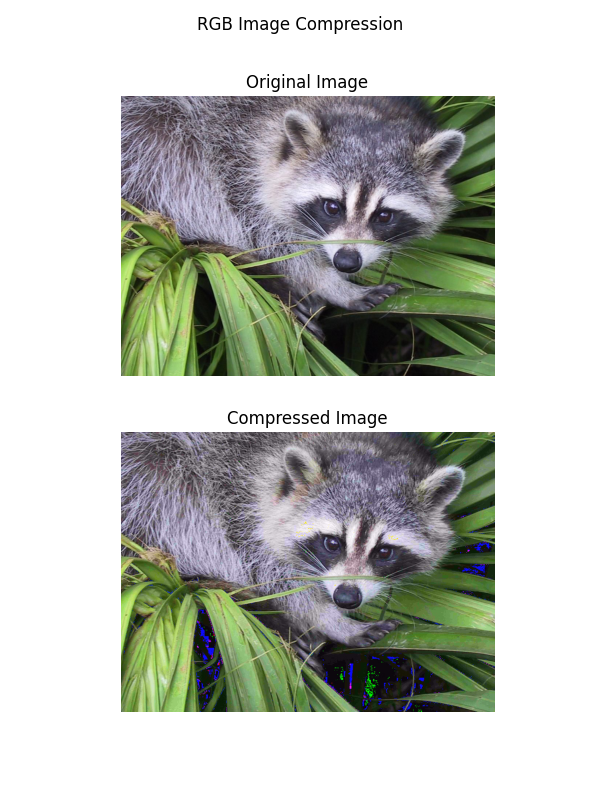
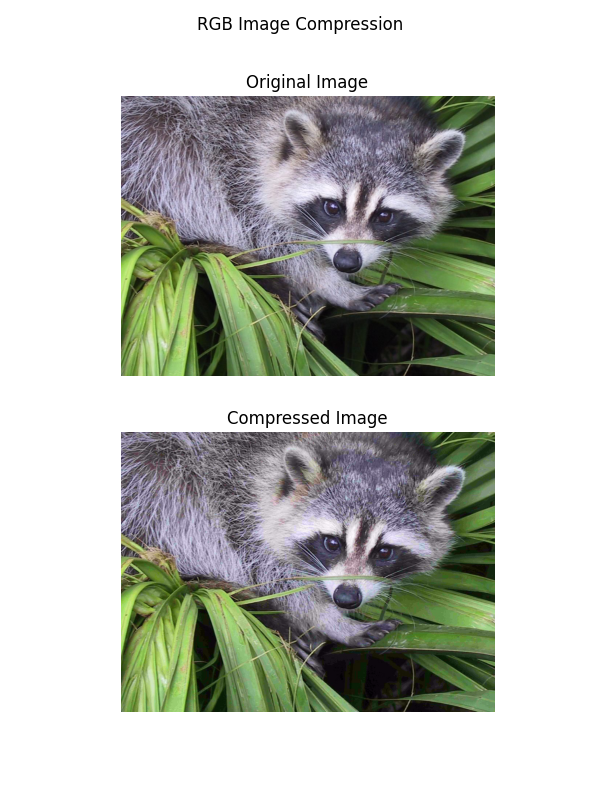
fix: pixel values clipped [0,255], casted final values to int, casted image to floats

Changed region(s): [[0.54, 0.8125, 0.72, 0.9062], [0.33, 0.75, 0.39, 0.875], [0.78, 0.6562, 0.81, 0.7188]]

diff --git a/tests/test_conversion.py b/tests/test_conversion.py
@@ -1,0 +1,38 @@
+import scipy
+from jpegzip.utils.image import rgb_to_ycbcr, ycbcr_to_rgb
+from skimage.metrics import mean_squared_error
+
+
+class TestConversion:
+    """A test class to validate the accuracy and integrity of RGB to YCbCr color conversion
+    and its inverse (YCbCr to RGB) using Mean Squared Error (MSE) as a metric.
+
+    Attributes:
+    -----------
+    MSE_THRESHOLD : float
+       A constant value representing the acceptable threshold for the Mean Squared Error (MSE)
+       between the original and reconstructed images. Default value is 10.0.
+    """
+
+    MSE_THRESHOLD: float = 10.0
+
+    def test_rgb_ycbcr_mse(self):
+        """Validates the RGB to YCbCr and YCbCr to RGB conversion processes.
+
+        Notes
+        -----
+        - Checks that all reconstructed RGB values fall within the valid range [0, 255].
+        - Computes the Mean Squared Error (MSE) between the original and reconstructed images.
+        - Asserts that the MSE is less than the defined threshold (`MSE_THRESHOLD`).
+        """
+
+        image = scipy.datasets.face()
+
+        ycbcr = rgb_to_ycbcr(image)
+        rgb = ycbcr_to_rgb(ycbcr)
+
+        assert (rgb >= 0).all() and (rgb <= 255).all()
+
+        mse = mean_squared_error(image, rgb)
+
+        assert mse < TestConversion.MSE_THRESHOLD

diff --git a/jpegzip/utils/image.py b/jpegzip/utils/image.py
@@ -174,7 +174,8 @@ def rgb_to_ycbcr(image: np.ndarray) -> np.ndarray:
     bias = np.array([0, 128, 128])
 
     ycbcr_image = image @ transform_matrix.T + bias
-    return np.astype(ycbcr_image, np.uint8)
+
+    return np.clip(ycbcr_image, 0, 255).astype(np.uint8)
 
 
 def ycbcr_to_rgb(image: np.ndarray) -> np.ndarray:
@@ -202,7 +203,7 @@ def ycbcr_to_rgb(image: np.ndarray) -> np.ndarray:
     )
     bias = np.array([0, 128, 128])
 
-    ycbcr_image = image - bias
+    ycbcr_image = image.astype(np.float32) - bias
     rgb_image = ycbcr_image @ itransform_matrix.T
 
-    return np.astype(rgb_image, np.uint8)
+    return np.clip(rgb_image, 0, 255).astype(np.uint8)

diff --git a/jpegzip/main.py b/jpegzip/main.py
@@ -24,7 +24,7 @@ def compress_rgb_image() -> None:
     axs[1].axis("off")
 
     mse = mean_squared_error(image, compressed_image)
-    print(f"Mean Squared Error: {mse}")
+    print(f"Mean Squared Error: {mse:.4f}")
 
     save_fig(fig, plot_name)
     plt.show()
